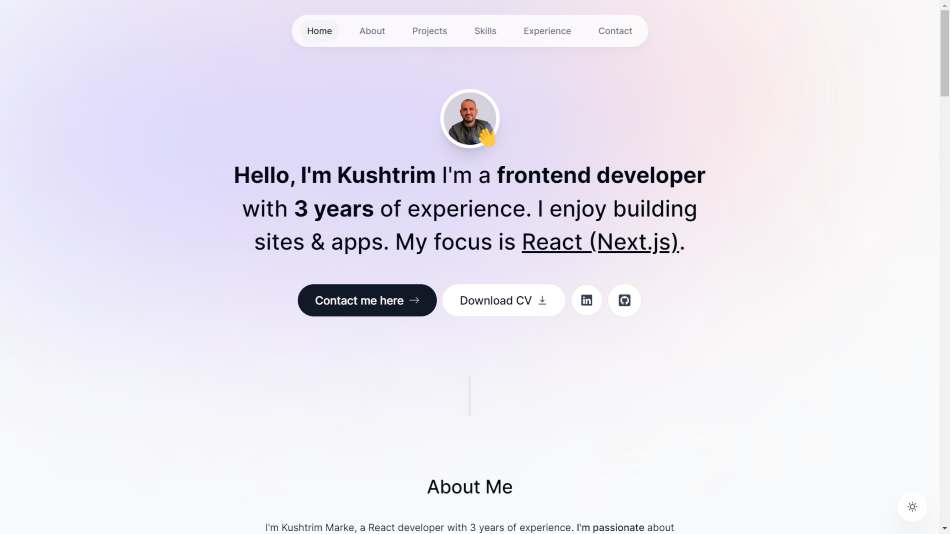
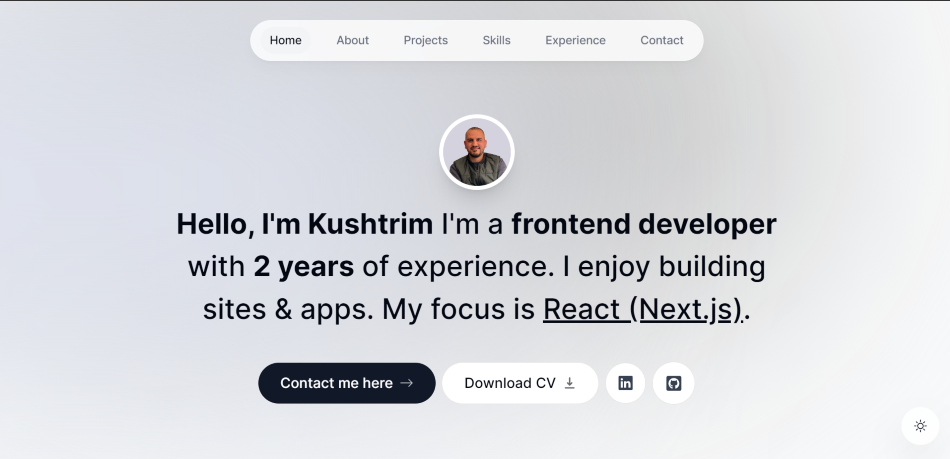
latest-changes

diff --git a/app/layout.tsx b/app/layout.tsx
@@ -24,8 +24,8 @@ export default function RootLayout({
       <body
         className={`${inter.className} bg-gray-50 text-gray-950 relative pt-28 sm:pt-36 dark:bg-gray-900 dark:text-gray-50 dark:text-opacity-90`}
       >
-        <div className='bg-[#fbe2e3] absolute top-[-6rem] -z-10 right-[11rem] h-[31.25rem] w-[31.25rem] rounded-full blur-[10rem] sm:w-[68.75rem] dark:bg-[#946263]'></div>
-        <div className='bg-[#dbd7fb] absolute top-[-1rem] -z-10 left-[-35rem] h-[31.25rem] w-[50rem] rounded-full blur-[10rem] sm:w-[68.75rem] md:left-[-33rem] lg:left-[-28rem] xl:left-[-15rem] 2xl:left-[-5rem] dark:bg-[#676394]'></div>
+        <div className='bg-[#c0c0c0] absolute top-[-6rem] -z-10 right-[11rem] h-[31.25rem] w-[31.25rem] rounded-full blur-[10rem] sm:w-[68.75rem] dark:bg-[#c0c0c0]'></div>
+        <div className='bg-[#dfe3ee] absolute top-[-1rem] -z-10 left-[-35rem] h-[31.25rem] w-[50rem] rounded-full blur-[10rem] sm:w-[68.75rem] md:left-[-33rem] lg:left-[-28rem] xl:left-[-15rem] 2xl:left-[-5rem] dark:bg-[#333333]'></div>
 
         <ThemeContextProvider>
           <ActiveSectionContextProvider>

diff --git a/components/intro.tsx b/components/intro.tsx
@@ -52,7 +52,7 @@ export default function Intro() {
               duration: 0.7,
             }}
           >
-            👋
+            
           </motion.span>
         </div>
       </div>
@@ -88,16 +88,7 @@ export default function Intro() {
           Contact me here{' '}
           <BsArrowRight className='opacity-70 group-hover:translate-x-1 transition' />
         </Link>
-
-        <a
-          className='group bg-white px-7 py-3 flex items-center gap-2 rounded-full outline-none focus:scale-110 hover:scale-110 active:scale-105 transition cursor-pointer borderBlack dark:bg-white/10'
-          href='/CV.pdf'
-          download
-        >
-          Download CV{' '}
-          <HiDownload className='opacity-60 group-hover:translate-y-1 transition' />
-        </a>
-
+        
         <a
           className='bg-white p-4 text-gray-700 hover:text-gray-950 flex items-center gap-2 rounded-full focus:scale-[1.15] hover:scale-[1.15] active:scale-105 transition cursor-pointer borderBlack dark:bg-white/10 dark:text-white/60'
           href='https://www.linkedin.com/in/kushtrim-marke/'

diff --git a/components/about.tsx b/components/about.tsx
@@ -19,7 +19,7 @@ export default function About() {
     >
       <SectionHeading>About me</SectionHeading>
       <p className='mb-3'>
-        I'm Kushtrim Marke, a React developer with 3 years of experience.{' '}
+        I'm Kushtrim Marke, a React developer with 2 years of experience.{' '}
         <span className='font-medium'>I'm passionate</span> about creating
         responsive web solutions and optimizing user experiences.I'm always
         looking to learn new technologies and grow as a{' '}

diff --git a/lib/data.ts b/lib/data.ts
@@ -87,7 +87,7 @@ export const projectsData = [
     title: 'GoConf',
     description:
       ' As a React Developer at GoConf, I am actively contributing to the renement of the user interface on the premier ICT conference discovery platform.',
-    tags: ['React', 'Chakra Ui', 'MongoDB', 'Prisma'],
+    tags: ['React','React Router', 'Chakra Ui'],
     imageUrl: goconfImg,
   },
   {
